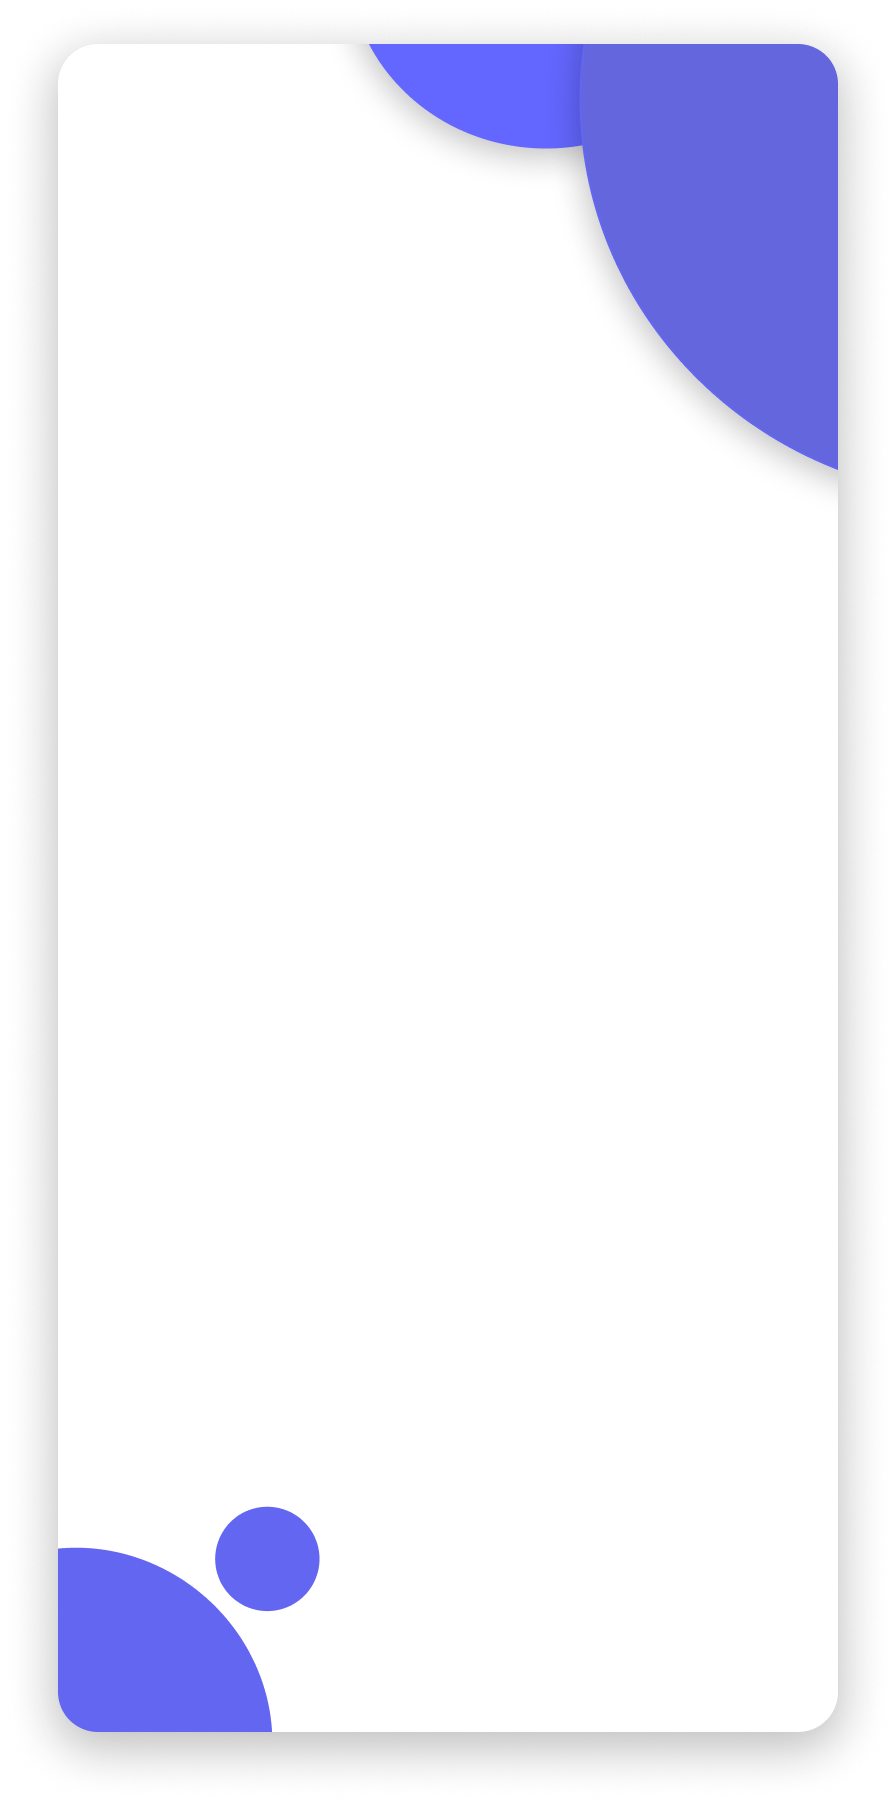
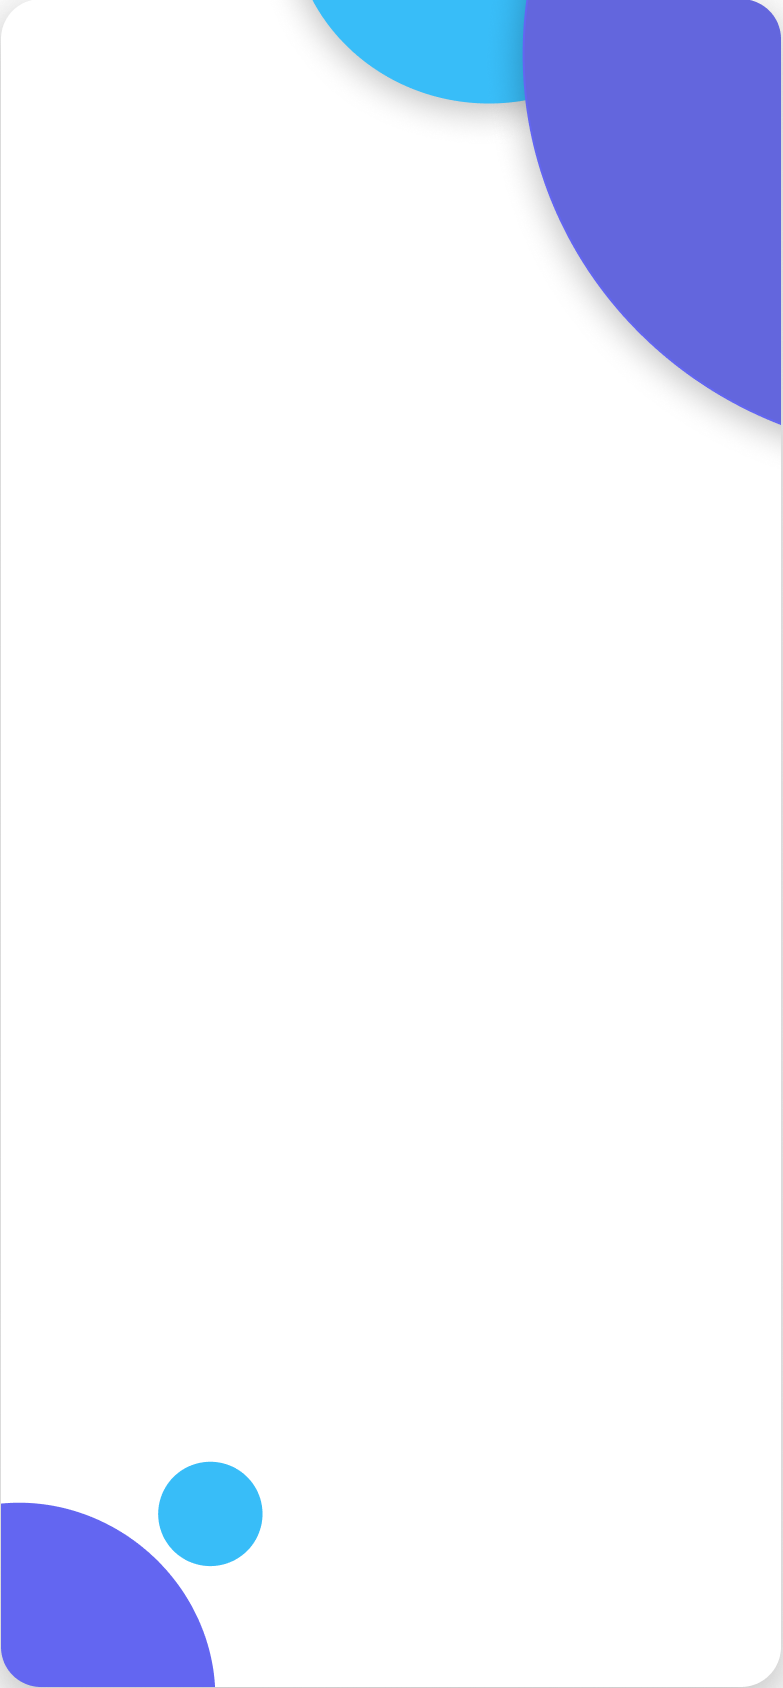
added splash

Changed region(s): [[0.0, 0.0, 1.0, 1.0]]

diff --git a/lib/modules/login/views/splash_view.dart b/lib/modules/login/views/splash_view.dart
@@ -1,16 +1,85 @@
 import '../../../constants/app_imports.dart';
 import '../controllers/login_controller.dart';
 
-class SplashView extends StatelessWidget {
-  SplashView({super.key});
+class SplashView extends StatefulWidget {
+  const SplashView({super.key});
 
+  @override
+  State<SplashView> createState() => _SplashViewState();
+}
+
+class _SplashViewState extends State<SplashView>
+    with SingleTickerProviderStateMixin {
   final loginCon = Get.find<LoginController>();
+
+  late AnimationController _controller;
+  late Animation<double> _fadeAnimation;
+  late Animation<double> _scaleAnimation;
+
+  @override
+  void initState() {
+    super.initState();
+
+    _controller = AnimationController(
+      vsync: this,
+      duration: const Duration(milliseconds: 1500),
+    );
+
+    _fadeAnimation = Tween<double>(
+      begin: 0.0,
+      end: 1.0,
+    ).animate(
+      CurvedAnimation(parent: _controller, curve: Curves.easeIn),
+    );
+
+    _scaleAnimation = Tween<double>(
+      begin: 0.7,
+      end: 1.0,
+    ).animate(
+      CurvedAnimation(parent: _controller, curve: Curves.elasticOut),
+    );
+
+    _controller.forward();
+
+    Future.delayed(const Duration(seconds: 3), () {
+      Get.offNamed(Routes.LOGIN);
+    });
+  }
+
+  @override
+  void dispose() {
+    _controller.dispose();
+    super.dispose();
+  }
 
   @override
   Widget build(BuildContext context) {
     return Scaffold(
-      body: SafeArea(
-        child: Container(color: Colors.red,),
+      body: Stack(
+        fit: StackFit.expand,
+        children: [
+          Positioned.fill(
+            child: Image.asset(
+              AppAssets.loginBg,
+              fit: BoxFit.cover,
+            ),
+          ),
+          Center(
+            child: FadeTransition(
+              opacity: _fadeAnimation,
+              child: ScaleTransition(
+                scale: _scaleAnimation,
+                child: SizedBox(
+                  width: 150.w,
+                  child: Image.asset(
+                    AppAssets.appLogo,
+                    fit: BoxFit.contain,
+                  ),
+                ),
+              ),
+            ),
+          ),
+        ],
       ),
     );
   }

diff --git a/lib/constants/app_colors.dart b/lib/constants/app_colors.dart
@@ -1,0 +1,44 @@
+import 'package:flutter/material.dart';
+
+class AppColors {
+  // Primary Brand Colors
+  static const Color primary = Color(0xFF6366F1); // Purple
+  static const Color secondary = Color(0xFF38BDF8); // Blue
+
+  // Accent Colors
+  static const Color success = Color(0xFF10B981); // Green
+  static const Color danger = Color(0xFFEF4444); // Red
+
+  // Background Colors
+  static const Color scaffoldBg = Color(0xFFF8FAFC);
+  static const Color white = Color(0xFFFFFFFF);
+  static const Color fieldBg = Color(0xFFF1F5F9);
+
+  // Text Colors
+  static const Color textPrimary = Color(0xFF0F172A);
+  static const Color textSecondary = Color(0xFF64748B);
+  static const Color textHint = Color(0xFF94A3B8);
+
+  // Border Colors
+  static const Color border = Color(0xFFE2E8F0);
+  static const Color divider = Color(0xFFCBD5E1);
+
+  // Icon Colors
+  static const Color iconPrimary = primary;
+  static const Color iconSecondary = secondary;
+  static const Color iconInactive = Color(0xFF94A3B8);
+
+  // Chat Bubble Colors
+  static const Color senderBubble = primary;
+  static const Color receiverBubble = Color(0xFFF8FAFC);
+
+  // Gradient Colors
+  static const LinearGradient primaryGradient = LinearGradient(
+    colors: [
+      Color(0xFF6366F1),
+      Color(0xFF38BDF8),
+    ],
+    begin: Alignment.centerLeft,
+    end: Alignment.centerRight,
+  );
+}

diff --git a/lib/global/widgets/reuse_text.dart b/lib/global/widgets/reuse_text.dart
@@ -1,0 +1,43 @@
+import '../../constants/app_imports.dart';
+
+class ReuseText extends StatelessWidget {
+  const ReuseText({
+    super.key,
+    this.weight = FontWeight.normal,
+    this.size = 15,
+    this.color = Colors.black,
+    required this.title,
+    this.decoration = TextDecoration.none,
+    this.maxLines,
+    this.linesSpace,
+    this.textAlign
+  });
+
+  final FontWeight weight;
+  final double size;
+  final Color color;
+  final String title;
+  final TextDecoration decoration;
+  final int? maxLines;
+  final double? linesSpace;
+  final TextAlign? textAlign;
+
+  @override
+  Widget build(BuildContext context) {
+    return Text(
+      title,
+      style: TextStyle(
+          fontSize: size,
+          fontWeight: weight,
+          color: color,
+          height: linesSpace,
+          fontFamily: "Poppins",
+          decoration: decoration,
+          decorationColor: color,
+      ),
+      maxLines: maxLines,
+      textAlign: textAlign,
+      overflow: maxLines != null ? TextOverflow.ellipsis : TextOverflow.visible,
+    );
+  }
+}

diff --git a/lib/modules/login/views/login_view.dart b/lib/modules/login/views/login_view.dart
@@ -1,3 +1,5 @@
+import 'package:chat_bot_frontend/global/widgets/reuse_text.dart';
+
 import '../../../constants/app_imports.dart';
 import '../controllers/login_controller.dart';
 
@@ -9,8 +11,28 @@ class LoginView extends StatelessWidget {
   @override
   Widget build(BuildContext context) {
     return Scaffold(
-      body: SafeArea(
-        child: Container(color: Colors.red,),
+      body: Stack(
+        fit: StackFit.expand,
+        children: [
+          Positioned.fill(
+            child: Image.asset(AppAssets.loginBg, fit: BoxFit.cover),
+          ),
+          Padding(
+            padding: EdgeInsets.only(top: 130.h),
+            child: Column(
+              children: [
+                Image.asset(AppAssets.appLogo, width: 90.w),
+                SizedBox(height: 10.h),
+                ReuseText(
+                  title: 'InnovaChat',
+                  color: AppColors.primary,
+                  size: 24.sp,
+                  weight: FontWeight.w700,
+                ),
+              ],
+            ),
+          ),
+        ],
       ),
     );
   }

diff --git a/lib/main.dart b/lib/main.dart
@@ -9,15 +9,20 @@ class MyApp extends StatelessWidget {
 
   @override
   Widget build(BuildContext context) {
-    return OKToast(
-      child: GetMaterialApp(
-        title: 'Flutter Demo',
-        debugShowCheckedModeBanner: false,
-        theme: ThemeData(
-          colorScheme: .fromSeed(seedColor: Colors.deepPurple),
+    return ScreenUtilInit(
+      designSize: Size(375, 841),
+      minTextAdapt: true,
+      splitScreenMode: true,
+      child: OKToast(
+        child: GetMaterialApp(
+          title: 'Flutter Demo',
+          debugShowCheckedModeBanner: false,
+          theme: ThemeData(
+            colorScheme: .fromSeed(seedColor: Colors.deepPurple),
+          ),
+          initialRoute: AppPages.INITIAL,
+          getPages: AppPages.routes,
         ),
-        initialRoute: AppPages.INITIAL,
-        getPages: AppPages.routes,
       ),
     );
   }

diff --git a/lib/constants/app_assets.dart b/lib/constants/app_assets.dart
@@ -29,4 +29,8 @@ class AppAssets {
   static const String upload = 'assets/icons/upload.png';
   static const String user = 'assets/icons/user.png';
 
+  // Images
+  static const String loginBg = 'assets/images/login_bg.png';
+
+
 }

diff --git a/lib/constants/app_imports.dart b/lib/constants/app_imports.dart
@@ -6,6 +6,8 @@ export 'package:flutter/material.dart';
 // Constants
 export 'package:chat_bot_frontend/constants/app_urls.dart';
 export 'package:chat_bot_frontend/constants/app_strings.dart';
+export 'package:chat_bot_frontend/constants/app_assets.dart';
+export 'package:chat_bot_frontend/constants/app_colors.dart';
 
 // Packages
 export 'package:dio/dio.dart';
@@ -13,6 +15,7 @@ export 'package:shared_preferences/shared_preferences.dart';
 export 'package:get/get.dart' hide FormData, MultipartFile, Response;
 export 'package:connectivity_plus/connectivity_plus.dart';
 export 'package:oktoast/oktoast.dart';
+export 'package:flutter_screenutil/flutter_screenutil.dart';
 
 
 // Managers